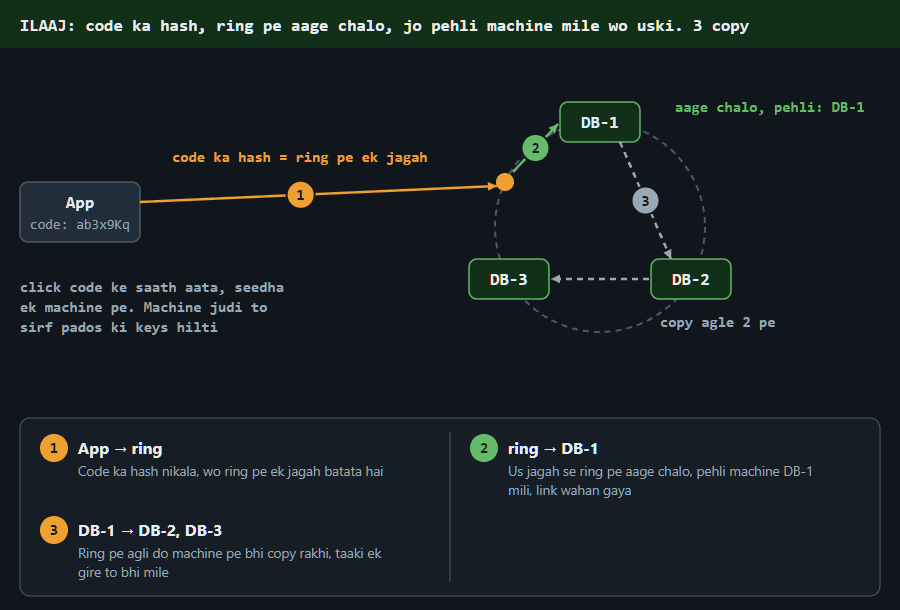
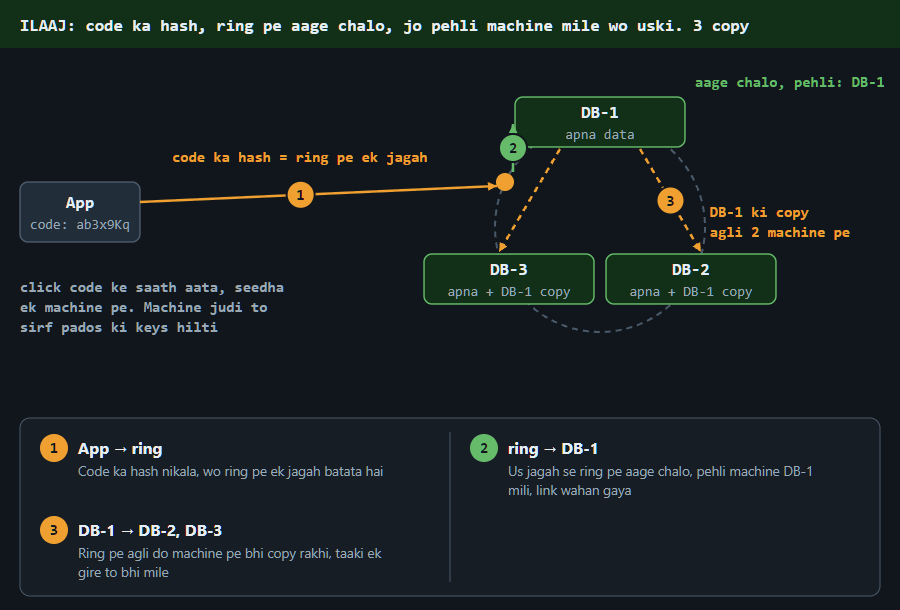
hld url c5: har DB ke dabbe me haal (apna data + DB-1 ki copy), copy ke teer DB-1 se dono padosi pe

Changed region(s): [[0.4667, 0.2803, 0.9644, 0.5607], [0.56, 0.1246, 0.9956, 0.2803]]

diff --git a/04_HLD/SYSTEM_DESIGNS/01_url_shortener/img/c5_anim.html b/04_HLD/SYSTEM_DESIGNS/01_url_shortener/img/c5_anim.html
@@ -205,15 +205,16 @@ const CX = 600, CY = 175, R = 105;
 const P = [[CX, CY - R], [CX + 91, CY + 52], [CX - 91, CY + 52]]; // DB-1 top, DB-2 right-neeche, DB-3 left-neeche
 function ring(dead) {
   el('circle', { cx: CX, cy: CY, r: R, fill: 'none', stroke: C.line, 'stroke-width': 2, 'stroke-dasharray': '6 5' }, DYN);
+  const SUB = ['apna data', 'apna + DB-1 copy', 'apna + DB-1 copy']; // ring pe agli 2 machine = pichhli ki copy
   ['DB-1', 'DB-2', 'DB-3'].forEach((n, i) => {
-    const d = dead === i; B(P[i][0] - 40, P[i][1] - 20, 80, 40, n, '', { st: d ? 'bad' : 'good' }); if (d) cross(P[i][0] + 58, P[i][1]);
+    const d = dead === i; B(P[i][0] - 85, P[i][1] - 25, 170, 50, n, SUB[i], { st: d ? 'bad' : 'good' }); if (d) cross(P[i][0] + 105, P[i][1]);
   });
 }
 const HP = [CX - 95, CY - 45]; // hash ki jagah ring pe (DB-1 se thoda pehle)
 const STEPS = [
   [[C.bad, 'App → DB', 'App har naya link ek hi DB machine pe likh raha hai'], [C.bad, 'DB', '5 saal me 90 TB ho jaayega, ek machine me itna samaata hi nahi']],
   [[C.acc, 'App → ring', 'Code ka hash nikala, wo ring pe ek jagah batata hai'], [C.good, 'ring → DB-1', 'Us jagah se ring pe aage chalo, pehli machine DB-1 mili, link wahan gaya'], [C.acc, 'DB-1 → DB-2, DB-3', 'Ring pe agli do machine pe bhi copy rakhi, taaki ek gire to bhi mile']],
-  [[C.acc, 'App → ring', 'Link khulne aaya, code ka hash ring pe wahi jagah batata hai'], [C.bad, 'ring → DB-1', 'Pehli machine DB-1 mar chuki hai, wahan se jawab nahi'], [C.good, 'ring → DB-2', 'Ring pe agli machine DB-2 pe copy thi, link wahan se khul gaya']],
+  [[C.acc, 'App → ring', 'Link khulne aaya, code ka hash ring pe wahi jagah batata hai'], [C.bad, 'ring → DB-1', 'Pehli machine DB-1 mar chuki hai, wahan se jawab nahi'], [C.good, 'ring → DB-2', 'DB-2 ke paas apna data bhi aur DB-1 ki copy bhi, link wahan se khul gaya']],
 ];
 function frame(ph) {
   if (ph === 0) {
@@ -224,16 +225,16 @@ function frame(ph) {
     B(20, 130, 120, 60, 'App', 'code: ab3x9Kq'); ring(-1);
     A(140, 150, HP[0] - 8, HP[1] + 4, C.acc, { n: 1, at: 0.45 }); L(300, 110, 'code ka hash = ring pe ek jagah', C.acc);
     dot(HP, C.acc, '');
-    A(HP[0] + 8, HP[1] - 10, P[0][0] - 42, P[0][1] + 2, C.good, { n: 2 }); L(CX + 75, CY - R - 10, 'aage chalo, pehli: DB-1', C.good, 'start');
-    A(P[0][0] + 20, P[0][1] + 20, P[1][0] - 20, P[1][1] - 20, C.muted, { n: 3, dash: 1 });
-    A(P[1][0] - 42, P[1][1], P[2][0] + 42, P[2][1], C.muted, { dash: 1 });
-    L(CX + 60, CY + 100, 'copy agle 2 pe', C.muted, 'start');
+    A(HP[0] + 8, HP[1] - 10, P[0][0] - 87, P[0][1] + 2, C.good, { n: 2 }); L(CX + 95, CY - R - 35, 'aage chalo, pehli: DB-1', C.good, 'start');
+    A(P[0][0] + 40, P[0][1] + 27, P[1][0] + 10, P[1][1] - 27, C.acc, { n: 3, dash: 1 });
+    A(P[0][0] - 40, P[0][1] + 27, P[2][0] - 10, P[2][1] - 27, C.acc, { dash: 1 });
+    L(CX + 110, CY - 10, 'DB-1 ki copy', C.acc, 'start'); L(CX + 110, CY + 10, 'agli 2 machine pe', C.acc, 'start');
     L(20, 240, 'click code ke saath aata, seedha', C.muted, 'start'); L(20, 260, 'ek machine pe. Machine judi to', C.muted, 'start'); L(20, 280, 'sirf pados ki keys hilti', C.muted, 'start');
   } else {
     B(20, 130, 120, 60, 'App', 'code: ab3x9Kq'); ring(0);
     A(140, 150, HP[0] - 8, HP[1] + 4, C.acc, { n: 1, at: 0.45 }); dot(HP, C.acc, '');
-    A(HP[0] + 8, HP[1] - 10, P[0][0] - 42, P[0][1] + 2, C.bad, { n: 2, dash: 1 }); L(CX + 75, CY - R - 10, 'DB-1 mar gayi', C.bad, 'start');
-    A(HP[0] + 10, HP[1] + 10, P[1][0] - 42, P[1][1] - 8, C.good, { n: 3 }); L(CX + 60, CY + 100, 'copy se mila, link gaya nahi', C.good, 'start');
+    A(HP[0] + 8, HP[1] - 10, P[0][0] - 87, P[0][1] + 2, C.bad, { n: 2, dash: 1 }); L(CX + 120, CY - R - 35, 'DB-1 mar gayi', C.bad, 'start');
+    A(HP[0] + 10, HP[1] + 10, P[1][0] - 60, P[1][1] - 27, C.good, { n: 3 }); L(CX, CY + 130, 'DB-2 pe DB-1 ki copy thi: link mila', C.good);
     L(20, 240, 'naya DB-1 aaya to baaki', C.muted, 'start'); L(20, 260, 'copy se bhar jaata', C.muted, 'start');
   }
 }

diff --git a/04_HLD/SYSTEM_DESIGNS/01_url_shortener/img/c5_anim.js b/04_HLD/SYSTEM_DESIGNS/01_url_shortener/img/c5_anim.js
@@ -10,15 +10,16 @@ const CX = 600, CY = 175, R = 105;
 const P = [[CX, CY - R], [CX + 91, CY + 52], [CX - 91, CY + 52]]; // DB-1 top, DB-2 right-neeche, DB-3 left-neeche
 function ring(dead) {
   el('circle', { cx: CX, cy: CY, r: R, fill: 'none', stroke: C.line, 'stroke-width': 2, 'stroke-dasharray': '6 5' }, DYN);
+  const SUB = ['apna data', 'apna + DB-1 copy', 'apna + DB-1 copy']; // ring pe agli 2 machine = pichhli ki copy
   ['DB-1', 'DB-2', 'DB-3'].forEach((n, i) => {
-    const d = dead === i; B(P[i][0] - 40, P[i][1] - 20, 80, 40, n, '', { st: d ? 'bad' : 'good' }); if (d) cross(P[i][0] + 58, P[i][1]);
+    const d = dead === i; B(P[i][0] - 85, P[i][1] - 25, 170, 50, n, SUB[i], { st: d ? 'bad' : 'good' }); if (d) cross(P[i][0] + 105, P[i][1]);
   });
 }
 const HP = [CX - 95, CY - 45]; // hash ki jagah ring pe (DB-1 se thoda pehle)
 const STEPS = [
   [[C.bad, 'App → DB', 'App har naya link ek hi DB machine pe likh raha hai'], [C.bad, 'DB', '5 saal me 90 TB ho jaayega, ek machine me itna samaata hi nahi']],
   [[C.acc, 'App → ring', 'Code ka hash nikala, wo ring pe ek jagah batata hai'], [C.good, 'ring → DB-1', 'Us jagah se ring pe aage chalo, pehli machine DB-1 mili, link wahan gaya'], [C.acc, 'DB-1 → DB-2, DB-3', 'Ring pe agli do machine pe bhi copy rakhi, taaki ek gire to bhi mile']],
-  [[C.acc, 'App → ring', 'Link khulne aaya, code ka hash ring pe wahi jagah batata hai'], [C.bad, 'ring → DB-1', 'Pehli machine DB-1 mar chuki hai, wahan se jawab nahi'], [C.good, 'ring → DB-2', 'Ring pe agli machine DB-2 pe copy thi, link wahan se khul gaya']],
+  [[C.acc, 'App → ring', 'Link khulne aaya, code ka hash ring pe wahi jagah batata hai'], [C.bad, 'ring → DB-1', 'Pehli machine DB-1 mar chuki hai, wahan se jawab nahi'], [C.good, 'ring → DB-2', 'DB-2 ke paas apna data bhi aur DB-1 ki copy bhi, link wahan se khul gaya']],
 ];
 function frame(ph) {
   if (ph === 0) {
@@ -29,16 +30,16 @@ function frame(ph) {
     B(20, 130, 120, 60, 'App', 'code: ab3x9Kq'); ring(-1);
     A(140, 150, HP[0] - 8, HP[1] + 4, C.acc, { n: 1, at: 0.45 }); L(300, 110, 'code ka hash = ring pe ek jagah', C.acc);
     dot(HP, C.acc, '');
-    A(HP[0] + 8, HP[1] - 10, P[0][0] - 42, P[0][1] + 2, C.good, { n: 2 }); L(CX + 75, CY - R - 10, 'aage chalo, pehli: DB-1', C.good, 'start');
-    A(P[0][0] + 20, P[0][1] + 20, P[1][0] - 20, P[1][1] - 20, C.muted, { n: 3, dash: 1 });
-    A(P[1][0] - 42, P[1][1], P[2][0] + 42, P[2][1], C.muted, { dash: 1 });
-    L(CX + 60, CY + 100, 'copy agle 2 pe', C.muted, 'start');
+    A(HP[0] + 8, HP[1] - 10, P[0][0] - 87, P[0][1] + 2, C.good, { n: 2 }); L(CX + 95, CY - R - 35, 'aage chalo, pehli: DB-1', C.good, 'start');
+    A(P[0][0] + 40, P[0][1] + 27, P[1][0] + 10, P[1][1] - 27, C.acc, { n: 3, dash: 1 });
+    A(P[0][0] - 40, P[0][1] + 27, P[2][0] - 10, P[2][1] - 27, C.acc, { dash: 1 });
+    L(CX + 110, CY - 10, 'DB-1 ki copy', C.acc, 'start'); L(CX + 110, CY + 10, 'agli 2 machine pe', C.acc, 'start');
     L(20, 240, 'click code ke saath aata, seedha', C.muted, 'start'); L(20, 260, 'ek machine pe. Machine judi to', C.muted, 'start'); L(20, 280, 'sirf pados ki keys hilti', C.muted, 'start');
   } else {
     B(20, 130, 120, 60, 'App', 'code: ab3x9Kq'); ring(0);
     A(140, 150, HP[0] - 8, HP[1] + 4, C.acc, { n: 1, at: 0.45 }); dot(HP, C.acc, '');
-    A(HP[0] + 8, HP[1] - 10, P[0][0] - 42, P[0][1] + 2, C.bad, { n: 2, dash: 1 }); L(CX + 75, CY - R - 10, 'DB-1 mar gayi', C.bad, 'start');
-    A(HP[0] + 10, HP[1] + 10, P[1][0] - 42, P[1][1] - 8, C.good, { n: 3 }); L(CX + 60, CY + 100, 'copy se mila, link gaya nahi', C.good, 'start');
+    A(HP[0] + 8, HP[1] - 10, P[0][0] - 87, P[0][1] + 2, C.bad, { n: 2, dash: 1 }); L(CX + 120, CY - R - 35, 'DB-1 mar gayi', C.bad, 'start');
+    A(HP[0] + 10, HP[1] + 10, P[1][0] - 60, P[1][1] - 27, C.good, { n: 3 }); L(CX, CY + 130, 'DB-2 pe DB-1 ki copy thi: link mila', C.good);
     L(20, 240, 'naya DB-1 aaya to baaki', C.muted, 'start'); L(20, 260, 'copy se bhar jaata', C.muted, 'start');
   }
 }

diff --git a/04_HLD/SYSTEM_DESIGNS/01_url_shortener/01_url_shortener.md b/04_HLD/SYSTEM_DESIGNS/01_url_shortener/01_url_shortener.md
@@ -197,11 +197,11 @@ Cue: SHARD by code (RING)
 
 <details><summary>kahani dekho (3 scene)</summary>
 
-<img src="img/c5_1.png?v=4" width="900">
+<img src="img/c5_1.png?v=5" width="900">
 
-<img src="img/c5_2.png?v=4" width="900">
+<img src="img/c5_2.png?v=5" width="900">
 
-<img src="img/c5_3.png?v=4" width="900">
+<img src="img/c5_3.png?v=5" width="900">
 
 </details>
 
